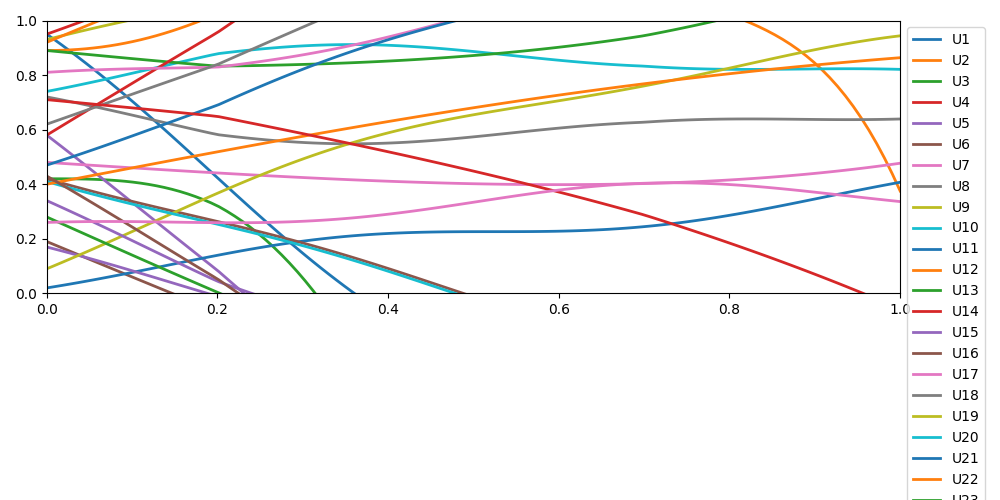
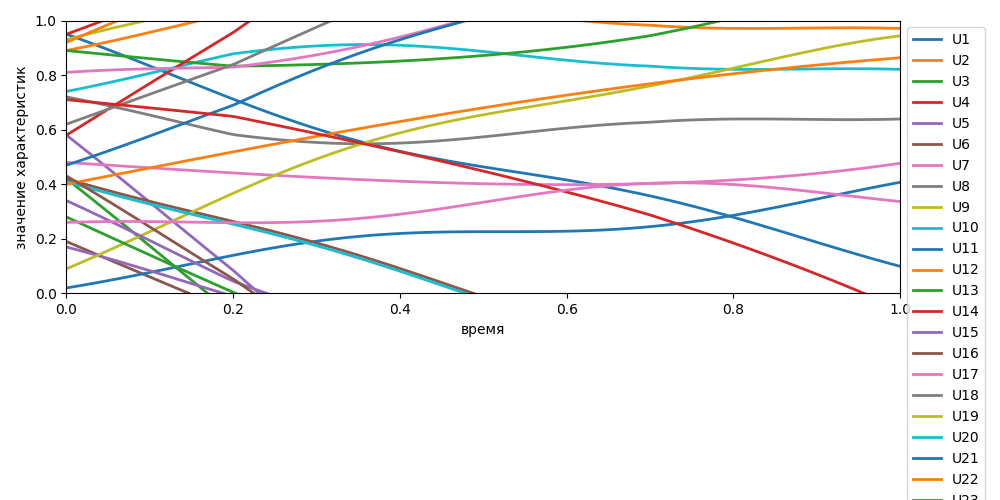
fixes

diff --git a/service.py b/service.py
@@ -105,6 +105,8 @@ class CharacteristicFromExcel:
             legend_labels.append(char.label)
         plt.xlim([0, 1])
         plt.ylim([0, 1])
+        plt.xlabel('время')
+        plt.ylabel('значение характеристик')
         plt.legend(legend_labels, bbox_to_anchor=(1, 1))
         plt.show()
         fig.tight_layout()
@@ -119,17 +121,19 @@ class CharacteristicFromExcel:
             if t_i > t:
                 break
             res_index = i
+
+        start_stats = [i[0] for i in self.res.values()]
         stats = [i[res_index] for i in self.res.values()]
-        make_radar_chart('T=' + str(t),filename, stats, labels)
+        make_radar_chart('T=' + str(t),filename, start_stats, stats, labels)
 
 
 
 
-def make_radar_chart(name, filename, stats, attribute_labels, plot_markers=[0, 0.2, 0.4, 0.6, 0.8, 1],
-                     plot_str_markers=["0", "0.2", "0.4", "0.6", "0.8", "1"]):
+def make_radar_chart(name, filename, initialStats, stats, attribute_labels):
     labels = np.array(attribute_labels)
 
     angles = np.linspace(0, 2 * np.pi, len(labels), endpoint=False)
+    initialStats = np.concatenate((initialStats, [initialStats[0]]))
     stats = np.concatenate((stats, [stats[0]]))
     angles = np.concatenate((angles, [angles[0]]))
 
@@ -137,12 +141,13 @@ def make_radar_chart(name, filename, stats, attribute_labels, plot_markers=[0, 0
     ax = fig.add_subplot(111, polar=True)
     ax.plot(angles, stats, 'o-', linewidth=2)
     ax.fill(angles, stats, alpha=0.25)
+    ax.plot(angles, initialStats, 'o-', linewidth=2, color='r')
+    ax.fill(angles, initialStats, alpha=0.25, color='r')
     ax.set_thetagrids(angles[:-1] * 180 / np.pi, labels)
-    plt.yticks(plot_markers)
     ax.set_title(name)
     ax.grid(True)
     plt.tight_layout
-    fig.savefig(filename)
+    fig.savefig(filename, bbox_inches='tight')
 
     return plt.show()
 
@@ -196,9 +201,13 @@ def get_faks_image():
     plt.plot(t, fak4(t))
     plt.plot(t, fak5(t))
 
+    plt.xlabel('время')
+    plt.ylabel('значение характеристик')
+
     # показываем график
 
     plt.ylim([0, 1])
     plt.legend(['FaK1', 'FaK2', 'FaK3', 'FaK4', 'FaK5'], bbox_to_anchor=(1, 1))
+    
     fig[0].tight_layout()
     fig[0].savefig('fak.png')

diff --git a/lab_ui.py b/lab_ui.py
@@ -594,7 +594,6 @@ class Ui_MainWindow(object):
 
         self.res = s.chars.calculate(values)
         s.chars.get_diag(self.doubleSpinBox_41.value(), 'diag.png')
-        s.chars.get_diag(0.0, 'diag0.png')
         s.chars.get_graphics()
         s.get_faks_image()
 
